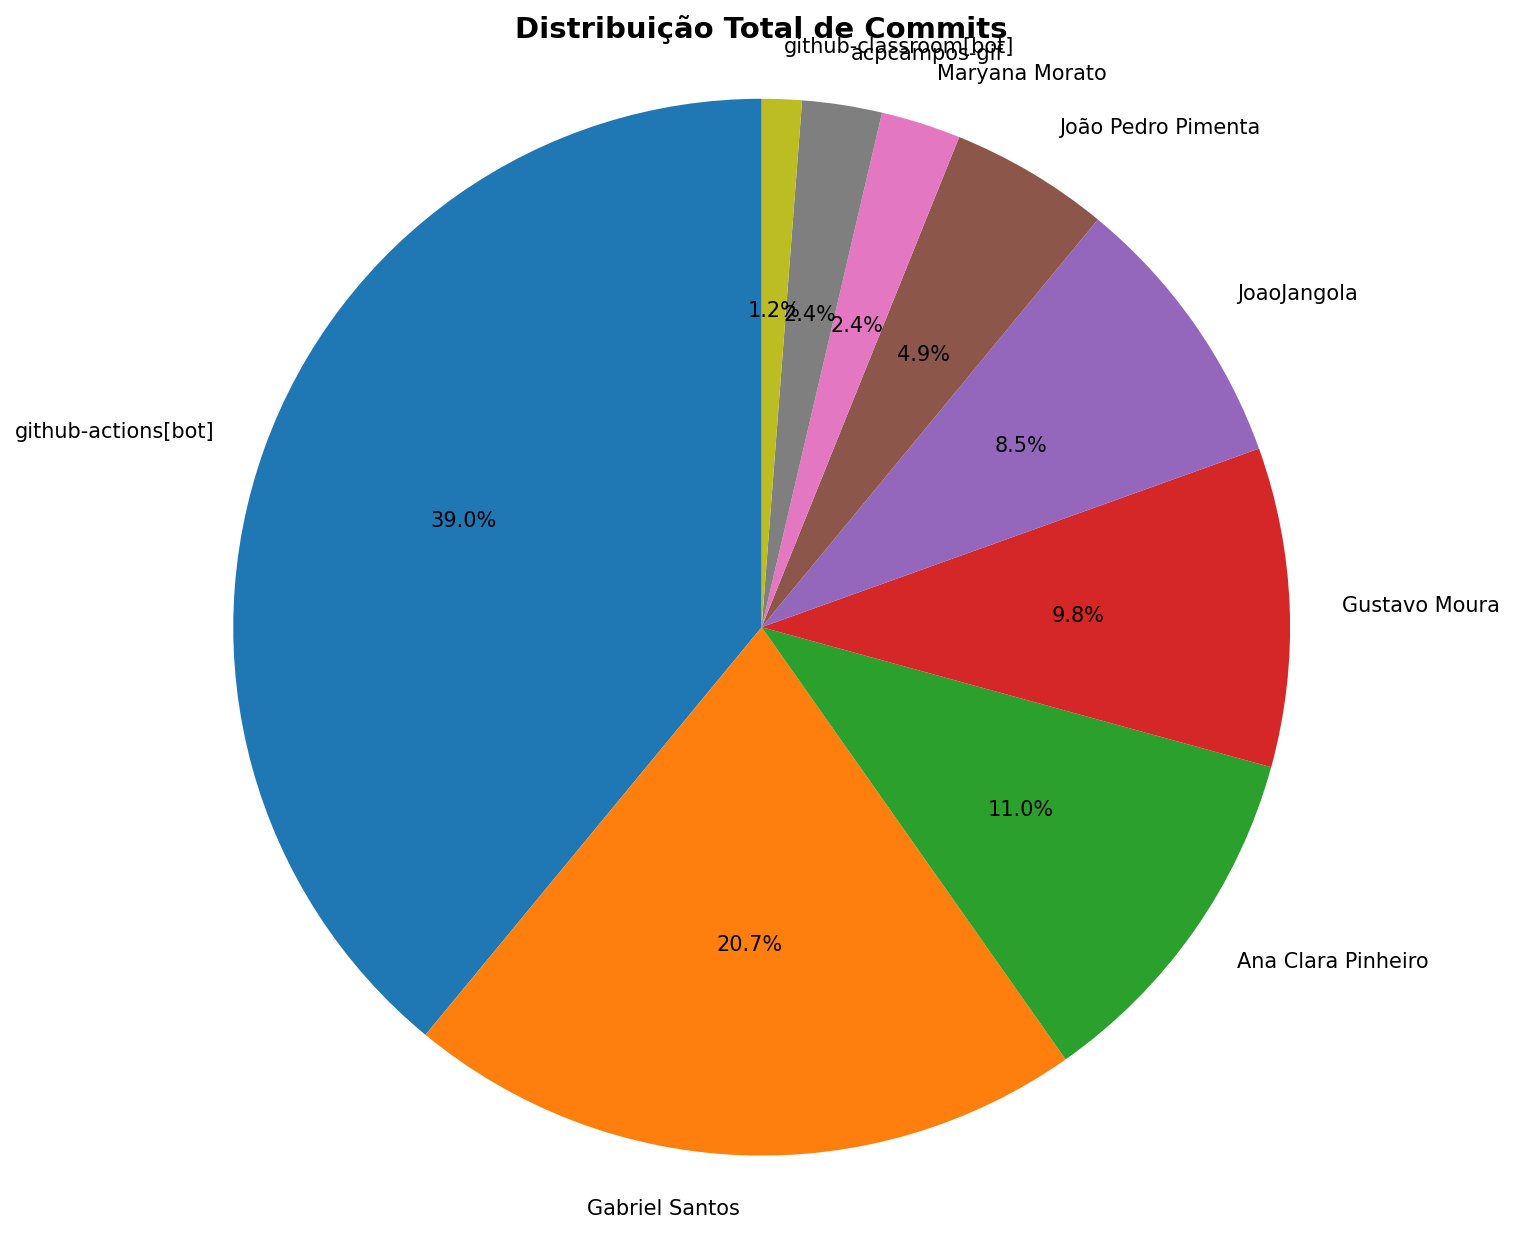
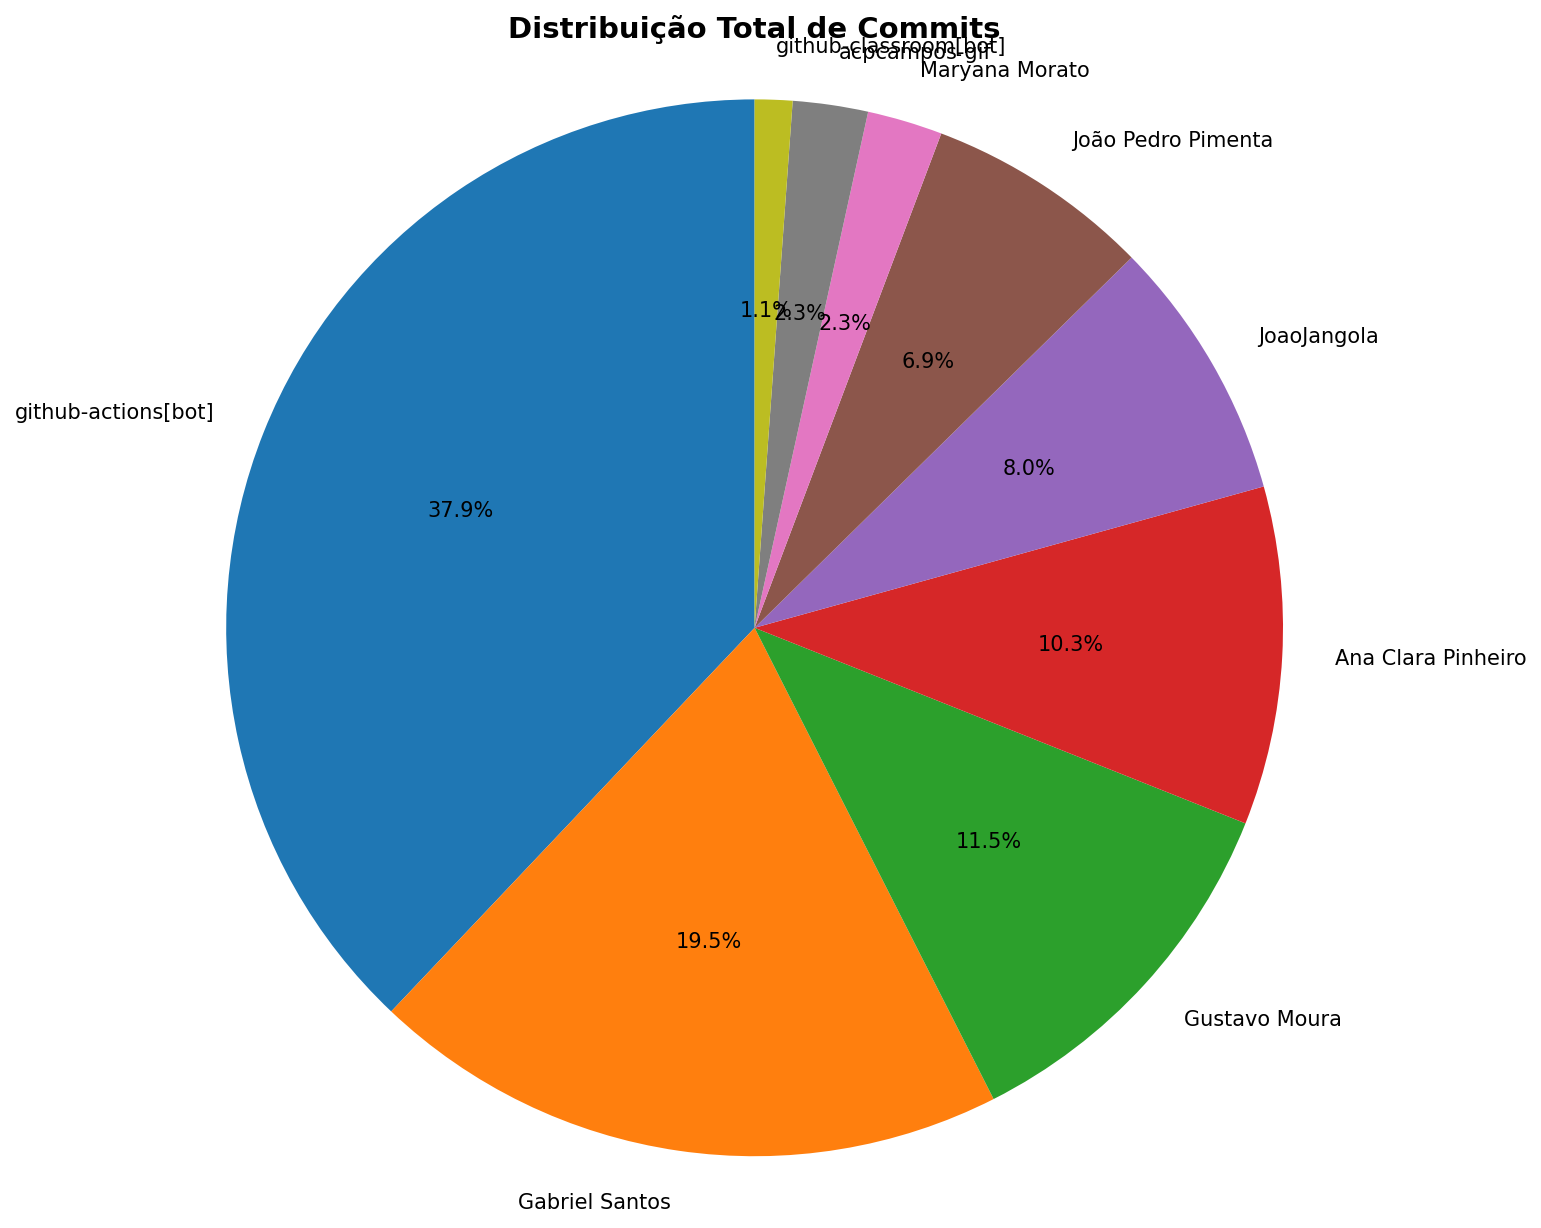
teste

diff --git a/docs/CONTRIBUTION_REPORT.md b/docs/CONTRIBUTION_REPORT.md
@@ -1,6 +1,6 @@
 # 📊 Relatório de Contribuições do Projeto
 
-**Última atualização:** 10/05/2026 22:37
+**Última atualização:** 10/05/2026 23:55
 
 ---
 
@@ -10,18 +10,18 @@
 |-----------------------|-----------|-----------|-----------|------------|----------------|-----------------|
 | Ana Clara Pinheiro    |         9 |      6715 |        27 |         35 |              8 |               3 |
 | Gabriel Santos        |        17 |      3257 |       371 |         60 |             14 |              10 |
-| Gustavo Moura         |         8 |       558 |        68 |          3 |              8 |               3 |
+| Gustavo Moura         |        10 |      3371 |       140 |         53 |              8 |               3 |
 | JoaoJangola           |         7 |      2731 |        39 |         48 |              5 |               2 |
-| João Pedro Pimenta    |         4 |        59 |         9 |          2 |              3 |               1 |
+| João Pedro Pimenta    |         6 |       120 |         9 |          4 |              3 |               1 |
 | Maryana Morato        |         2 |         9 |         9 |          1 |              2 |               1 |
 | acpcampos-gif         |         2 |       145 |        64 |          2 |              2 |               2 |
-| github-actions[bot]   |        32 |       227 |       214 |          3 |             32 |               1 |
+| github-actions[bot]   |        33 |       231 |       218 |          3 |             33 |               1 |
 | github-classroom[bot] |         1 |      2152 |         0 |         45 |              1 |              13 |
 
 
 ## 📅 Contribuições Semanais (Todo o Semestre)
 
-**2026-05-03**: Ana Clara Pinheiro: 4, Gabriel Santos: 8, JoaoJangola: 2, github-actions[bot]: 9
+**2026-05-03**: Ana Clara Pinheiro: 4, Gabriel Santos: 8, Gustavo Moura: 1, JoaoJangola: 2, João Pedro Pimenta: 2, github-actions[bot]: 10
 
 **2026-04-26**: JoaoJangola: 1, github-actions[bot]: 2
 
@@ -29,7 +29,7 @@
 
 **2026-04-12**: João Pedro Pimenta: 1, github-actions[bot]: 1
 
-**2026-04-05**: Ana Clara Pinheiro: 1, Gabriel Santos: 2, Gustavo Moura: 2, João Pedro Pimenta: 1, Maryana Morato: 1, github-actions[bot]: 7
+**2026-04-05**: Ana Clara Pinheiro: 1, Gabriel Santos: 2, Gustavo Moura: 3, João Pedro Pimenta: 1, Maryana Morato: 1, github-actions[bot]: 7
 
 **2026-03-29**: Gabriel Santos: 1, github-actions[bot]: 1
 
@@ -37,9 +37,9 @@
 
 **2026-03-15**: Ana Clara Pinheiro: 1, Gabriel Santos: 1, Maryana Morato: 1, github-actions[bot]: 4
 
-**2026-03-08**: Gustavo Moura: 6, JoaoJangola: 1
+**2026-03-08**: Gustavo Moura: 5
 
-**2026-03-01**: Gabriel Santos: 4, acpcampos-gif: 2
+**2026-03-01**: Gabriel Santos: 4, Gustavo Moura: 1, JoaoJangola: 1, acpcampos-gif: 2
 
 **2026-02-15**: github-classroom[bot]: 1
 
